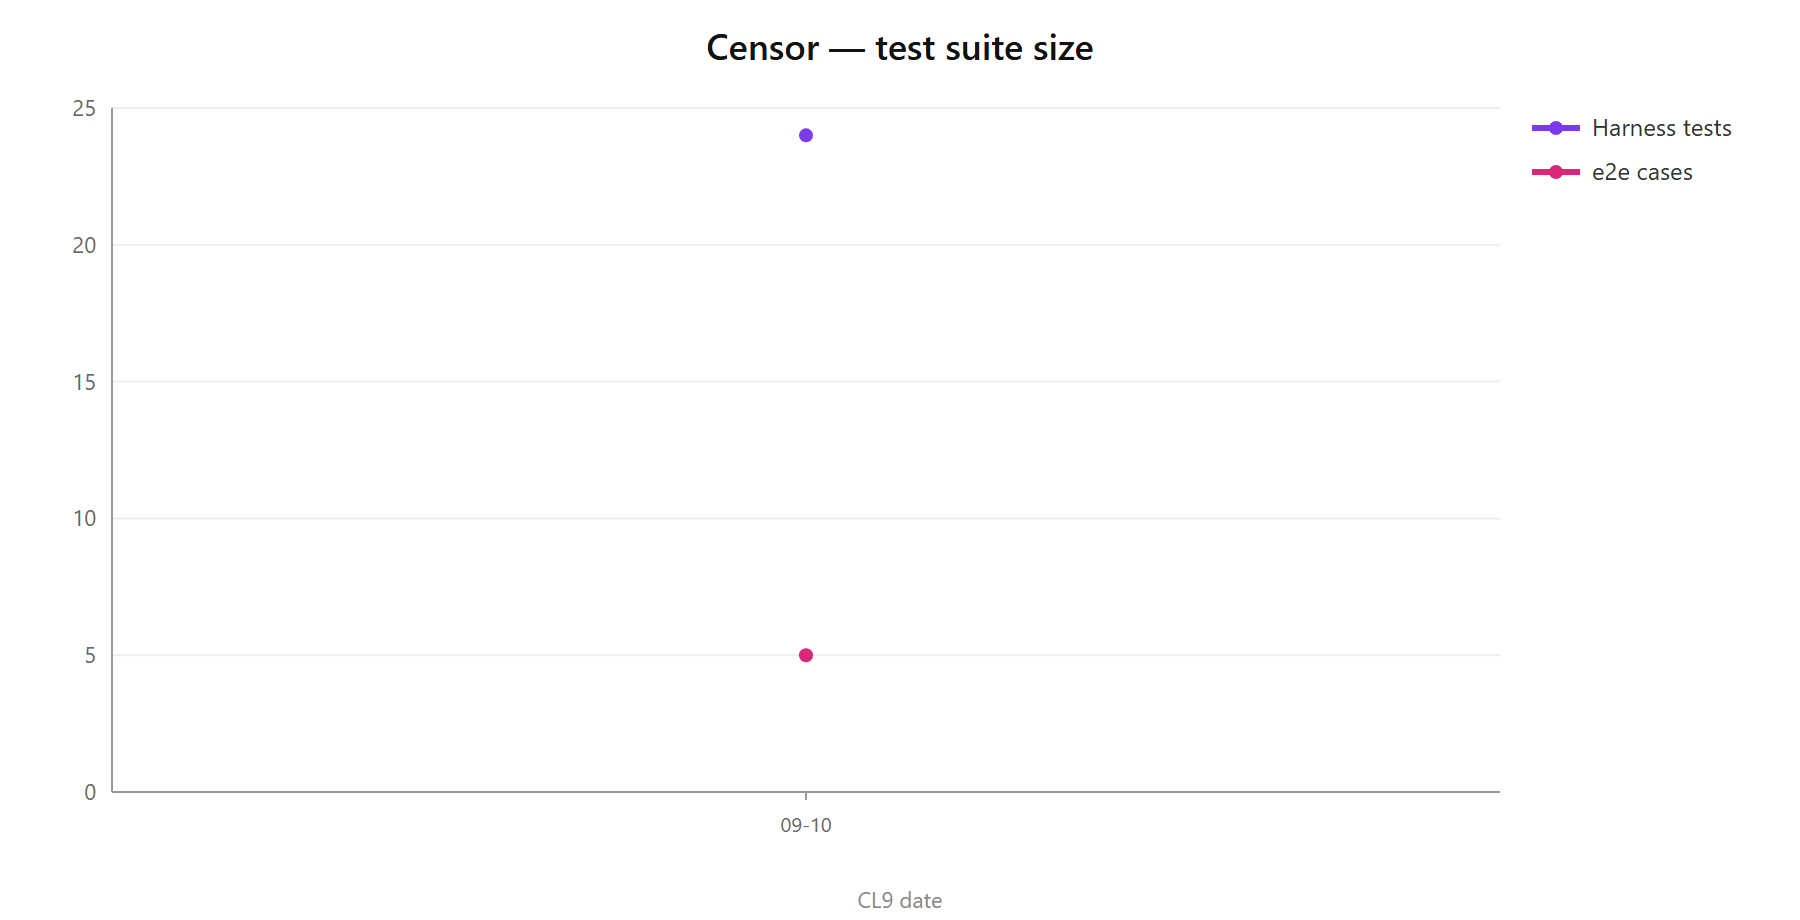
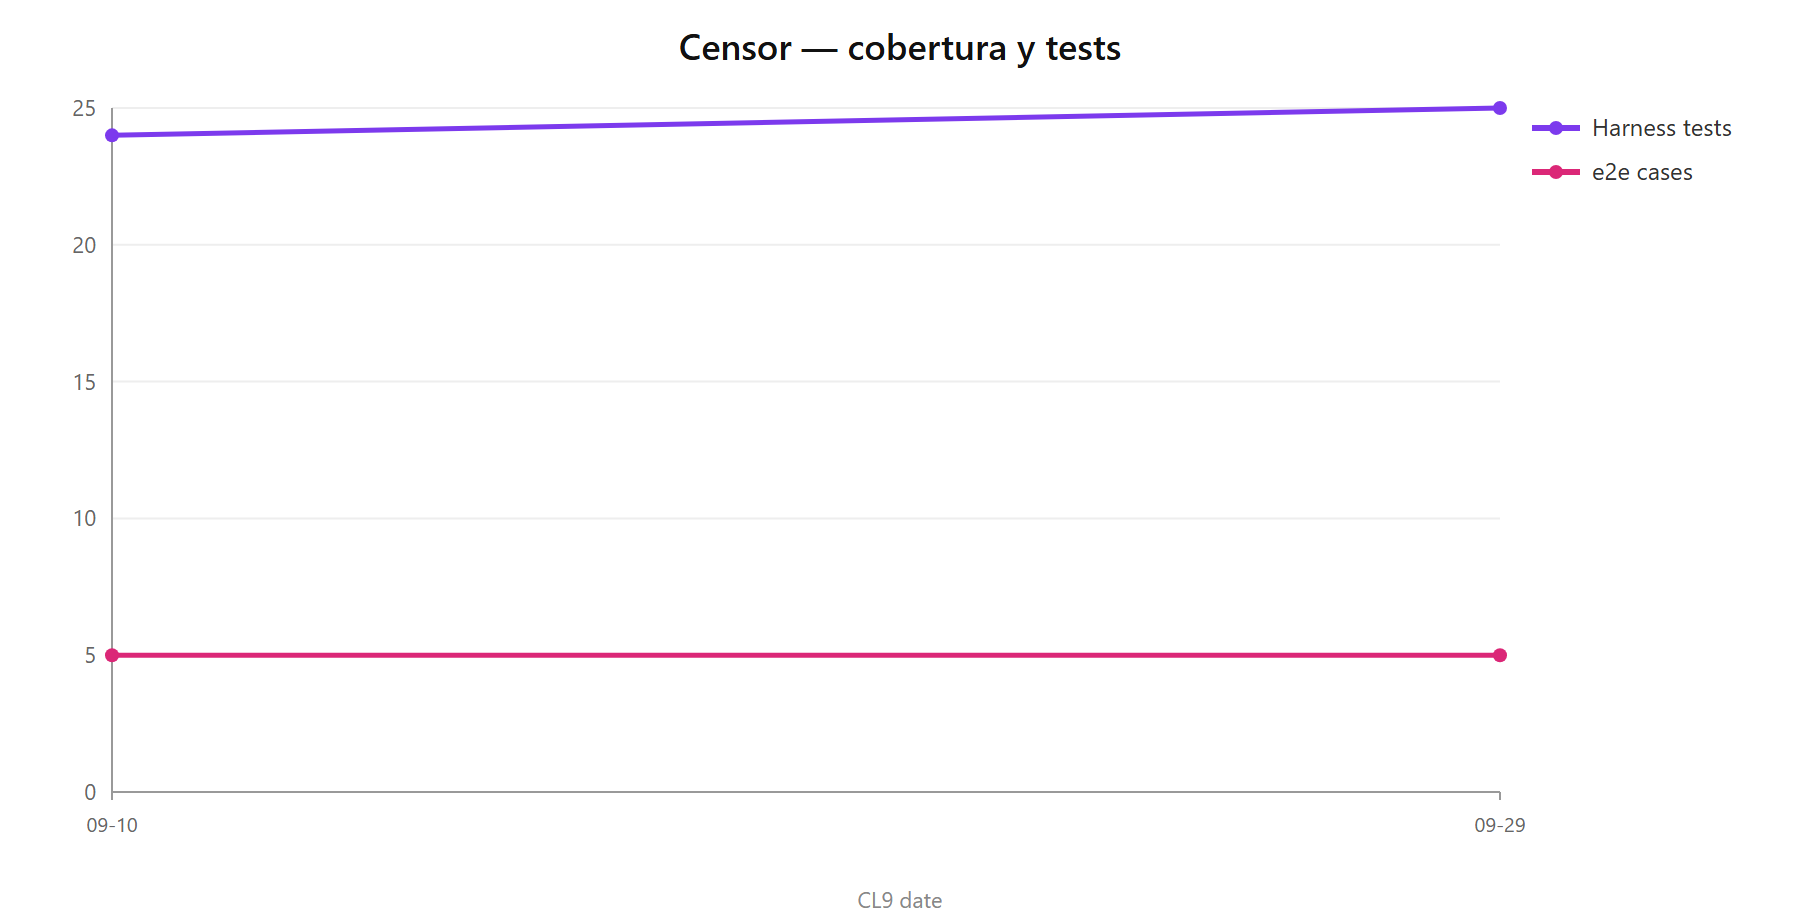
fix(censor): it declared the events provider and never subscribed to it
Censor listed 'events' in requirements.providers and had its handler,
handleClusterPodEvent, but declaring only makes the core INSTANTIATE a
provider — nothing is delivered to whoever does not subscribe. So in a
cluster-scoped session a pod that was born never entered the inventory, and
one that died never left it.

The harness hid it: the two tests covering that behaviour called
processProviderEvent('events', ...) by hand, proving the handler and not the
wiring. Both green, with the function dead in the cluster. The new test covers
exactly that half, and was checked red without the fix.

Only 'Pod' is asked for, which is the one kind that handler reads.

Comes with censor's first README, so its npm page says something, and the
build now copies it into dist/ where the publish comes from.

diff --git a/plugins/censor/tests/back/CensorAssets.test.ts b/plugins/censor/tests/back/CensorAssets.test.ts
@@ -47,7 +47,7 @@ const PODS: IPodSpec[] = [
 
 // A resource instance (namespace view): the core registers one object per container
 const setupResource = async (cfgs: ICensorInstanceConfig[] = [logCfg()], pods: IPodSpec[] = PODS) => {
-    const { ci, calls, setFailure } = makeClusterInfo(pods)
+    const { ci, calls, subs, setFailure } = makeClusterInfo(pods)
     const { obj, own, warnings } = makeBackObj()
     own.set('censor-configs', cfgs)
     const ch = new CensorChannel(ci, obj as never)
@@ -61,12 +61,12 @@ const setupResource = async (cfgs: ICensorInstanceConfig[] = [logCfg()], pods: I
     const stop = () => ch.processCommand(ws as never, cmd('i1', ECensorCommand.ANALYZESTOP) as never)
     // Without a teardown, reconnection timers would stay alive and the test process would never finish
     const teardown = () => ch.stopInstance(ws as never, instanceConfig as never)
-    return { ch, ws, instanceConfig, calls, warnings, setFailure, start, stop, teardown }
+    return { ch, ws, instanceConfig, calls, subs, warnings, setFailure, start, stop, teardown }
 }
 
 // A cluster instance: censor discovers the pods on its own
 const setupCluster = async (cfgs: ICensorInstanceConfig[] = [logCfg()], pods: IPodSpec[] = PODS) => {
-    const { ci, calls, setFailure } = makeClusterInfo(pods)
+    const { ci, calls, subs, setFailure } = makeClusterInfo(pods)
     const { obj, own, warnings } = makeBackObj()
     own.set('censor-configs', cfgs)
     const ch = new CensorChannel(ci, obj as never)
@@ -75,7 +75,7 @@ const setupCluster = async (cfgs: ICensorInstanceConfig[] = [logCfg()], pods: IP
     const instanceConfig = instanceConfigFor('i1', EInstanceConfigView.CLUSTER)
     await ch.addObject(ws as never, instanceConfig as never, '*all', '*all', '*all')
     const teardown = () => ch.stopInstance(ws as never, instanceConfig as never)
-    return { ch, ws, instanceConfig, calls, warnings, setFailure, teardown }
+    return { ch, ws, instanceConfig, calls, subs, warnings, setFailure, teardown }
 }
 
 const assetsMessages = (ws: MockWs) => ws.of('assets')
@@ -247,6 +247,22 @@ test('restarting the analysis reopens the streams of the same inventory', async 
 
     assert.equal(calls.length, 6, '3 streams opened, closed and opened again')
     assert.ok(getInstance(ch).assets.every(a => a.state === ECensorAssetState.STREAMING))
+})
+
+/*
+    The two tests below hand 'processProviderEvent' the event themselves, which proves the handler and
+    nothing else. For a long time nobody subscribed to 'events', so in a real cluster that handler was
+    never called and the pod add/remove those tests describe did not happen: listing the provider in
+    'requirements' makes the core INSTANTIATE it, never deliver to it. This one covers the wiring, which
+    is the half the others cannot see.
+*/
+test('starting the channel subscribes to the events provider, asking for pods', async (t) => {
+    const { subs, teardown } = await setupCluster()
+    t.after(teardown)
+
+    const sub = subs.find(s => s.providerId === 'events')
+    assert.ok(sub, 'without this subscription no pod event ever reaches the channel')
+    assert.deepEqual((sub!.data as { kinds: string[] }).kinds, ['Pod'], 'only Pod is read by handleClusterPodEvent')
 })
 
 test('a deleted pod leaves the inventory and its stream is aborted', async (t) => {

diff --git a/plugins/censor/src/back/index.ts b/plugins/censor/src/back/index.ts
@@ -198,6 +198,15 @@ export class CensorChannel {
         const stored: ILlmProvider[] = (await this.backChannelObject.readStorageCommon!(STORAGE_KEY_PROVIDERS, true)) ?? []
         this.providers = stored
         await loadModels(this.providers, this.backChannelObject)
+        /*
+            Provider 'events': pod add/remove for cluster-scoped instances. Listing it in
+            'requirements' only makes the core INSTANTIATE it — nothing is delivered until somebody
+            subscribes, and nobody did: 'handleClusterPodEvent' was unreachable and a cluster-scoped
+            instance never saw a pod appear or go away. Only 'Pod' is asked for, which is the one kind
+            that handler reads.
+        */
+        const core = this.clusterInfo as { addSubscriber: (id: string, c: unknown, config: unknown) => void }
+        core.addSubscriber('events', this, { kinds: ['Pod'], syncInstances: false })
     }
 
     private rebuildBusinessSubscription(): void {

diff --git a/plugins/censor/README.md b/plugins/censor/README.md
@@ -1,0 +1,66 @@
+# Censor
+
+A channel for **[Kwirth](https://kwirthmagnify.dev)** that reads your logs with an **LLM** and turns what
+it finds into **regular expressions** — so the noise that buried the signal gets filtered out, and the
+patterns that mattered stay named.
+
+Nobody writes the filters for a log they have never read. Censor reads it for you: it streams the logs of
+the containers you point it at, asks a model what repeats and what is worth flagging, and proposes regexes
+you can keep, edit or drop. The filters it produces are plain regular expressions — yours, portable, and
+readable without the model.
+
+> **Kwirth** is an open-source Kubernetes observability and operations tool: logs, metrics, events and more,
+> in real time, extended with plugins like this one.
+> Website: **https://kwirthmagnify.dev** · Source: **https://github.com/kwirthmagnify/kwirth**
+
+## What it does
+
+- **Inventories** the containers your configuration matches — the **Objects** tab — and keeps up with the
+  cluster: in a cluster-scoped session a pod created later joins the list on its own, and one that goes
+  away leaves it.
+- **Streams** their logs only while an analysis is running. Stopping closes the streams; a stream that
+  Kubernetes cuts short reconnects with backoff instead of dropping the object.
+- **Asks an LLM** for patterns, and shows each regex with its match count, its share of the total, and
+  where it came from: **L** (LLM-generated), **M** (manual) or **H** (hybrid).
+- **Takes business events too**, not only pod logs, through the `business` provider.
+- **Routes what it flags onward** to any Kwirth sender — mail, Teams, a file, a ticket.
+
+## Installing it
+
+From Kwirth: **☰ → Manage extensions → Plugins**, find **Censor** in the marketplace and install it. It
+needs an **AI provider** configured (its own dialog, shared with the other AI channels) before an analysis
+can run.
+
+## Configuration
+
+A **config** is a named filter set: which containers it covers (all of them, or sources by namespace, pod
+regex and label selector), which model to use, the batch size and the prompt. A session can run several
+configs at once, each with its own runners.
+
+**Auto start what's ON** starts the analysis of every active config as soon as the channel starts, so a
+restored workspace comes back analyzing instead of waiting for a click.
+
+Configs travel: **Import/Export** moves them as JSON between clusters.
+
+The user guide, with screenshots, lives in the Kwirth documentation:
+**https://kwirthmagnify.dev** → Guide → Extensions → Plugins → Censor.
+
+## Development
+
+```
+npm install
+node build.mjs          # typechecks, then builds dist/ (front.js, back.js, package.json, README.md)
+npm test                # harness; COVERAGE=1 npm test for coverage
+node watch.mjs          # rebuilds on every change, without typecheck
+```
+
+To run it from source, add it to `back/kwirth-dev.json` as `"censor": "../plugins/censor/dist"`. The core
+caches a plugin's `back.js`: after a back change, **restart the Kwirth back**; the front reloads on its own.
+
+The e2e suite lives in [e2e/](e2e/) and needs the app running, with credentials in `e2e/.creds.json`
+(gitignored). It checks the UI contract and cancels out of the config dialog on purpose: it never starts an
+analysis, because that would spend real LLM tokens.
+
+## License
+
+Same as Kwirth — see https://github.com/kwirthmagnify/kwirth.

diff --git a/plugins/censor/docs/qa/test-metrics-history.md b/plugins/censor/docs/qa/test-metrics-history.md
@@ -13,4 +13,5 @@
 
 | Fecha | Versión / tag | Harness | Cobertura (líneas / ramas / funcs) | e2e (specs / casos) | Notas |
 |---|---|---|---|---|---|
+| 2026-09-29 | `plugin/censor@0.2.52` | **25** | **58.20% / 68.65% / 68.84%** | 2 / 5 | **El canal nunca se suscribió a `events`.** Censor lo declaraba en `requirements.providers` desde siempre y tenía su handler, `handleClusterPodEvent`, pero **declarar solo hace que el core INSTANCIE el provider; no entrega nada a quien no se suscribe**. Resultado: en una instancia *cluster-scoped*, un pod que nacía no entraba al inventario y uno que moría no salía. Lo tapaba el propio harness: los dos tests que cubrían ese comportamiento llamaban a `ch.processProviderEvent('events', …)` **a mano**, así que probaban el handler y no el cableado — verdes los dos, con la función muerta en producción. Arreglo: `addSubscriber('events', this, { kinds: ['Pod'], syncInstances: false })` en `startChannel`, pidiendo solo `Pod`, que es el único kind que ese handler lee. El test nuevo (**+1**) cubre justo la mitad que los otros no podían ver, y se comprobó que **falla sin el arreglo** (1 fail) y pasa con él. Sin e2e nuevo: reproducirlo exige **crear y borrar un pod real**, y se propone como spec aparte. La cobertura baja una décima en líneas porque el denominador crece con el arreglo. |
 | 2026-09-10 | `plugin/censor@0.2.48` | **24** | **58.31% / 68.28% / 69.18%** | 2 / 5 | **Primer CL9 de censor con harness y e2e propios.** Dos features: (1) **inventario de assets separado del stream de logs** — los streams se abren al analizar y se abortan al parar, un cierre prematuro reconecta con backoff en vez de borrar el objeto, `sinceSeconds` en lugar de `tailLines` (el tail metía una línea histórica de cada container en el primer lote del LLM), emisión agrupada del inventario y estado por asset (`idle`/`streaming`/`reconnecting`/`failed`) visible en Objects; (2) **autostart del análisis** — un único switch para todo el canal (`censor-autostart`) que arranca las configs ON al arrancar el channel. **e2e creado desde cero** (no existía): harness aislado con Playwright 1.61.1 (pinneado a la versión cuyo navegador ya está instalado), `.creds.json` gitignoreado, `data-testid` estables en el front (`censor-panel`, `censor-menu`, `censor-menu-config`, `censor-analyze-toggle`) y un `zz-capture` que refresca la captura del diálogo de config de la guía del core. El e2e del autostart comprueba el **contrato de UI** y cierra con Cancel: no persiste ni arranca análisis, para no gastar LLM real ni tocar la config del usuario; el comportamiento va cubierto por el harness. `COVERAGE=1` wired en el runner. |

diff --git a/plugins/censor/docs/plan/BACKLOG.md b/plugins/censor/docs/plan/BACKLOG.md
@@ -1,7 +1,7 @@
 # Backlog — censor
 
 Pendientes vivos del plugin. La **guía de usuario** de censor no vive aquí: está en la documentación del
-core, en `docs/0.5.287/guide/extensions/plugins/censor.md` (censor es público y se publica con el core).
+core, en `docs/0.6.31/guide/extensions/plugins/censor.md` (censor es público y se publica con el core).
 
 ## Ciclo de vida de assets y streams — ✅ HECHO (0.2.48)
 - Inventario (containers que casan con las configs activas) **separado** del stream de logs: el stream solo
@@ -17,6 +17,22 @@ core, en `docs/0.5.287/guide/extensions/plugins/censor.md` (censor es público y
   su propia clave `censor-autostart`: al arrancar el channel se arranca el análisis de **todas** las configs
   ON, igual que pulsar Start. No viaja en el export/import (es preferencia de la instalación).
 - No dispara si ninguna config ON tiene fuente configurada, la misma guarda que deshabilita el botón Start.
+
+## Suscripción a `events` — ✅ HECHO (0.2.52)
+- El canal declaraba `events` en `requirements.providers` y tenía su handler, pero **nunca se suscribía**:
+  declarar solo hace que el core **instancie** el provider, no que le entregue nada. En una instancia
+  *cluster-scoped* un pod que nacía no entraba al inventario y uno que moría no salía.
+- Arreglado en `startChannel` con `addSubscriber('events', this, { kinds: ['Pod'], syncInstances: false })`,
+  pidiendo solo `Pod`, que es el único kind que `handleClusterPodEvent` lee.
+- ⚠ **Lo tapaba el harness**: los dos tests del alta/baja llamaban a `processProviderEvent('events', …)`
+  a mano, así que probaban el handler y no el cableado. Verdes con la función muerta en el clúster. El test
+  nuevo cubre esa mitad y se verificó **en rojo sin el arreglo**. La lección es general: un test que se
+  salta el cableado no prueba que la función se ejecute nunca.
+
+## Testing — pendiente de este arreglo
+- **e2e del alta/baja de pods**: es el único que probaría el ciclo entero, y exige **crear y borrar un pod
+  real** (prefijo propio y limpieza, como manda la regla de e2e no destructivo): instancia cluster-scoped →
+  `kubectl run` → asertar que aparece en Objects → borrar → asertar que desaparece. No está hecho.
 
 ## Documentación propia del plugin
 - Censor **no** tiene bundle de documentación propio (`docs/guide` + `censor.tgz`) como excubitor, montag,

diff --git a/docs/0.6.31/guide/extensions/plugins/censor.md b/docs/0.6.31/guide/extensions/plugins/censor.md
@@ -72,6 +72,8 @@ The tabs break the pipeline apart. Counts update live.
 
 The **inventory** of pods/containers this session covers: every container matched by the active configurations (or, in a resource view, every container you selected). An object stays on this list while it matches — it does **not** disappear because its log stream had a hiccup.
 
+The list **keeps up with the cluster on its own**, with no refresh: in a **cluster** session a pod created after you opened the tab joins the inventory as soon as Kubernetes reports it, and in **any** session a pod that goes away leaves the list and its stream is closed. Which is what you want from a deployment that scales or a rollout that replaces its pods — the objects that appear are analyzed too, without reopening the channel.
+
 Each row carries a dot with the state of its **log stream**, which is a separate thing from being inventoried:
 
 | Dot | State | Meaning |
